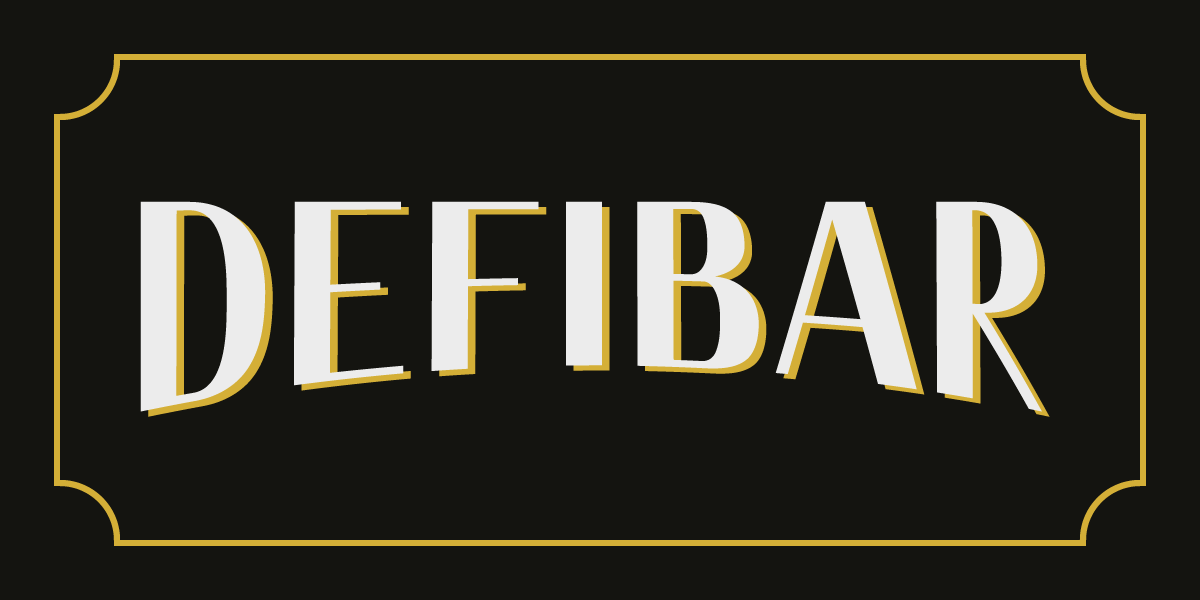
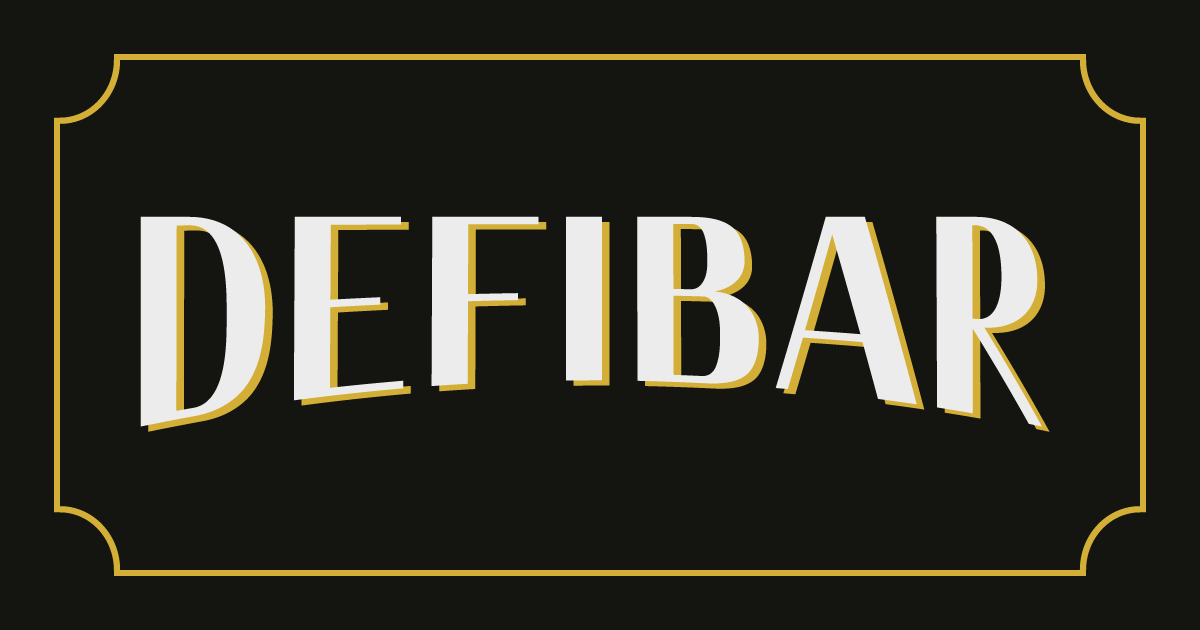
change social images

diff --git a/frontend/src/components/pages/search/Search.tsx b/frontend/src/components/pages/search/Search.tsx
@@ -157,7 +157,7 @@ export const Search: NextPage = () => {
         <meta property="og:type" content="website" />
         <meta property="og:url" content={process.env.NEXT_PUBLIC_APP_URL} />
         <meta property="og:site_name" content="DEFIBAR" />
-        <meta property="og:image" content={`${process.env.NEXT_PUBLIC_APP_URL}/twitter_image.png`} />
+        <meta property="og:image" content={`${process.env.NEXT_PUBLIC_APP_URL}/social_image.png`} />
         <meta name="twitter:title" content="DEFIBAR - The DeFi Search Bar" />
         <meta name="twitter:description" content="Access DeFi apps, Web3 protocols and crypto exchanges quickly." />
         <meta name="twitter:image" content={`${process.env.NEXT_PUBLIC_APP_URL}/twitter_image.png`} />
